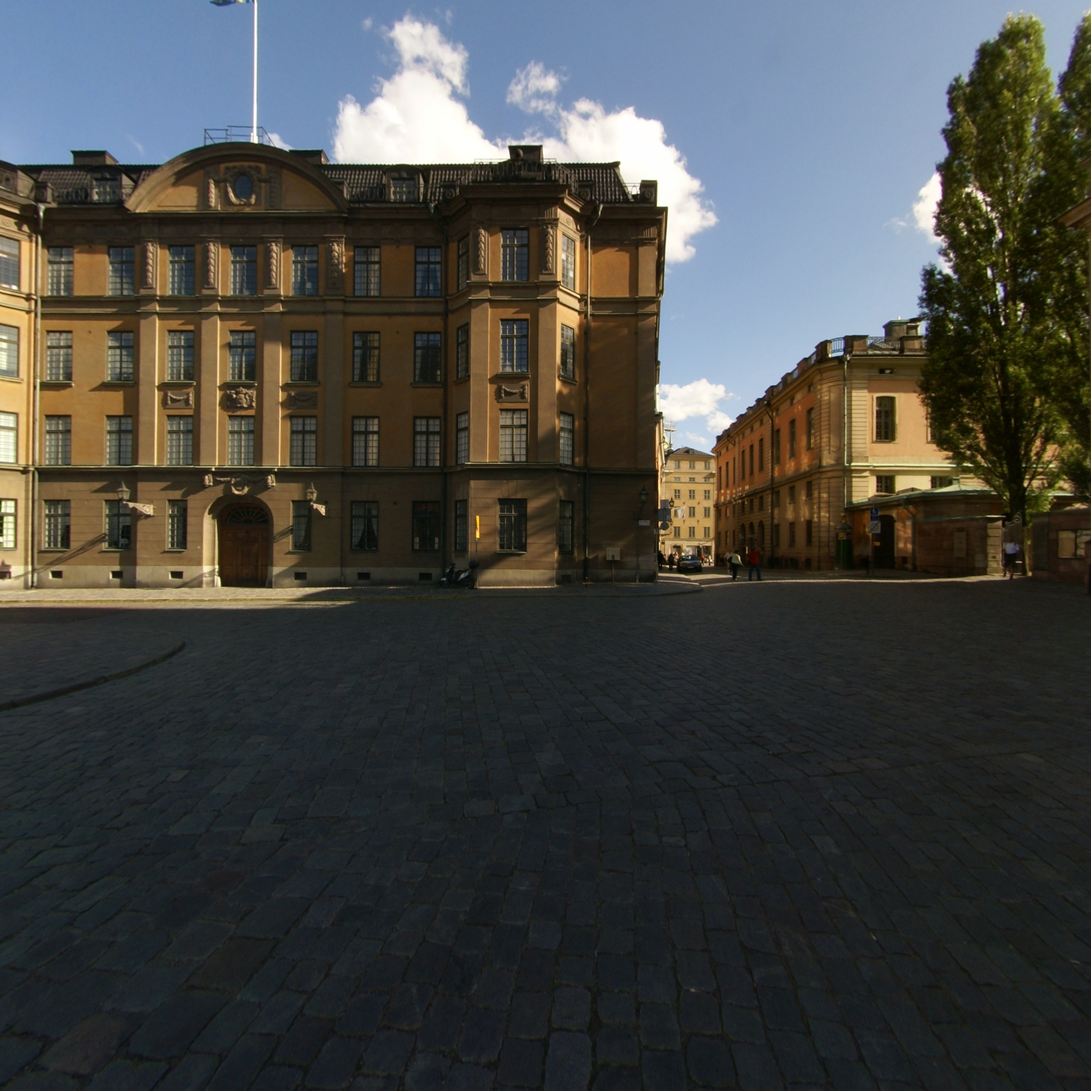
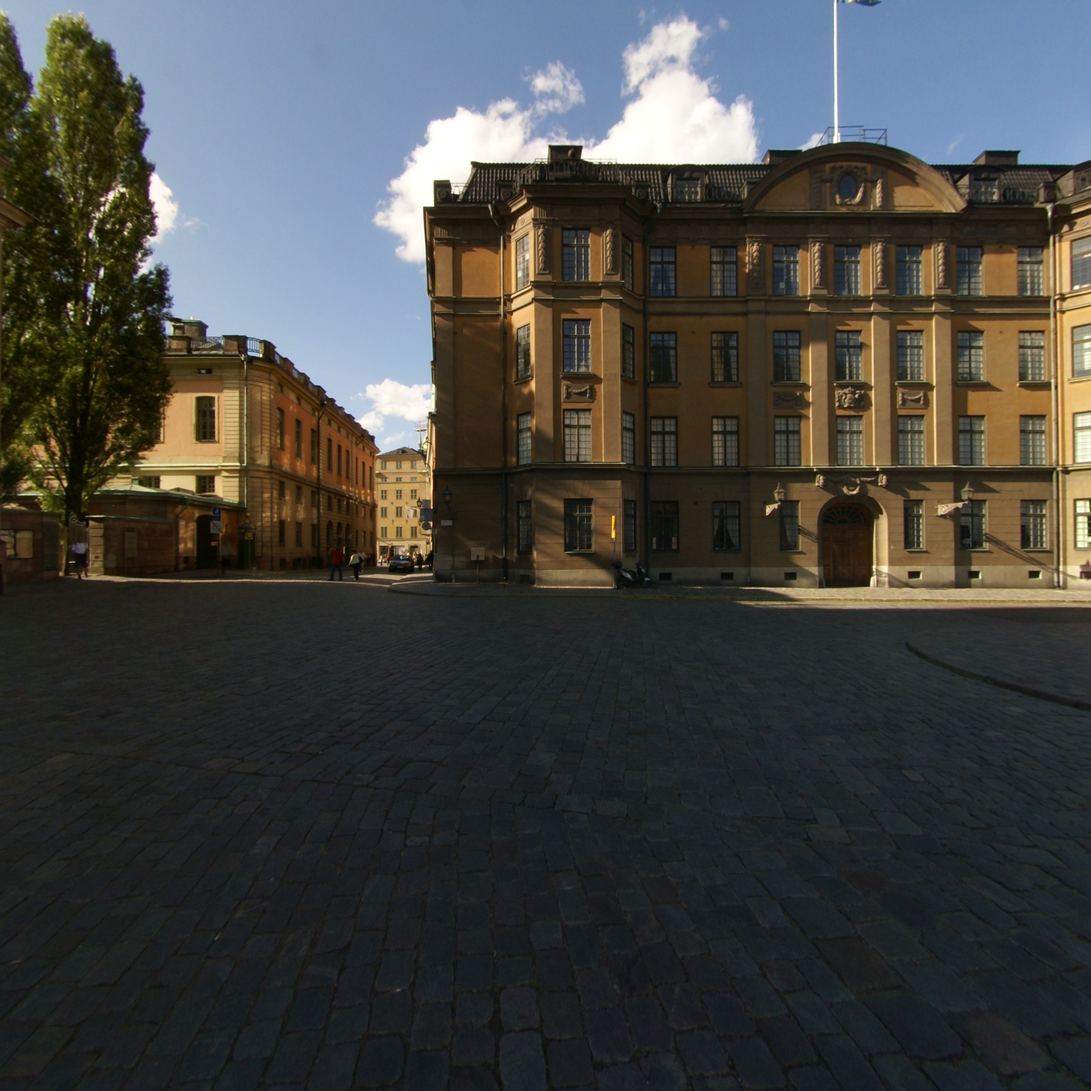
fixed image orientation and added camera movement

diff --git a/example-displayables.js b/example-displayables.js
@@ -11,8 +11,8 @@ Declare_Any_Class( "Debug_Screen",  // Debug_Screen - An example of a displayabl
       },
     'init_keys': function( controls )
       { controls.add( "t",    this, function() { this.visible ^= 1;                                                                                                             } );
-        controls.add( "up",   this, function() { this.start_index = ( this.start_index + 1 ) % Object.keys( this.string_map ).length;                                           } );
-        controls.add( "down", this, function() { this.start_index = ( this.start_index - 1   + Object.keys( this.string_map ).length ) % Object.keys( this.string_map ).length; } );
+        //controls.add( "up",   this, function() { this.start_index = ( this.start_index + 1 ) % Object.keys( this.string_map ).length;                                           } );
+        //controls.add( "down", this, function() { this.start_index = ( this.start_index - 1   + Object.keys( this.string_map ).length ) % Object.keys( this.string_map ).length; } );
         this.controls = controls;
       },
     'update_strings': function( debug_screen_object )   // Strings that this displayable object (Debug_Screen) contributes to the UI:
@@ -51,17 +51,18 @@ Declare_Any_Class( "Debug_Screen",  // Debug_Screen - An example of a displayabl
 Declare_Any_Class( "Example_Camera",     // An example of a displayable object that our class Canvas_Manager can manage.  Adds both first-person and
   { 'construct': function( context )     // third-person style camera matrix controls to the canvas.
       { // 1st parameter below is our starting camera matrix.  2nd is the projection:  The matrix that determines how depth is treated.  It projects 3D points onto a plane.
-        context.shared_scratchpad.graphics_state = new Graphics_State( translation(0, 0, -10), perspective(45, canvas.width/canvas.height, .1, 1000), 0 );
+        context.shared_scratchpad.graphics_state = new Graphics_State( translation(0, 0, 0), perspective(45, canvas.width/canvas.height, .1, 1000), 0 );
         //context.shared_scratchpad.graphics_state = new Graphics_State( translation(0, 0, 0), perspective(45, canvas.width/canvas.height, .1, 1000), 0 );
+        //this.define_data_members( { graphics_state: context.shared_scratchpad.graphics_state, thrust: vec3(), origin: vec3( 0, 5, 0 ), looking: false } );
         this.define_data_members( { graphics_state: context.shared_scratchpad.graphics_state, thrust: vec3(), origin: vec3( 0, 5, 0 ), looking: false } );
 
         // *** Mouse controls: ***
         this.mouse = { "from_center": vec2() };
-        var mouse_position = function( e ) { return vec2( e.clientX - canvas.width/2, e.clientY - canvas.height/2 ); };   // Measure mouse steering, for rotating the flyaround camera.
-        canvas.addEventListener( "mouseup",   ( function(self) { return function(e) { e = e || window.event;    self.mouse.anchor = undefined;              } } ) (this), false );
-        canvas.addEventListener( "mousedown", ( function(self) { return function(e) { e = e || window.event;    self.mouse.anchor = mouse_position(e);      } } ) (this), false );
-        canvas.addEventListener( "mousemove", ( function(self) { return function(e) { e = e || window.event;    self.mouse.from_center = mouse_position(e); } } ) (this), false );
-        canvas.addEventListener( "mouseout",  ( function(self) { return function(e) { self.mouse.from_center = vec2(); }; } ) (this), false );    // Stop steering if the mouse leaves the canvas.
+        // var mouse_position = function( e ) { return vec2( e.clientX - canvas.width/2, e.clientY - canvas.height/2 ); };   // Measure mouse steering, for rotating the flyaround camera.
+        // canvas.addEventListener( "mouseup",   ( function(self) { return function(e) { e = e || window.event;    self.mouse.anchor = undefined;              } } ) (this), false );
+        // canvas.addEventListener( "mousedown", ( function(self) { return function(e) { e = e || window.event;    self.mouse.anchor = mouse_position(e);      } } ) (this), false );
+        // canvas.addEventListener( "mousemove", ( function(self) { return function(e) { e = e || window.event;    self.mouse.from_center = mouse_position(e); } } ) (this), false );
+        // canvas.addEventListener( "mouseout",  ( function(self) { return function(e) { self.mouse.from_center = vec2(); }; } ) (this), false );    // Stop steering if the mouse leaves the canvas.
       },
     'init_keys': function( controls )   // init_keys():  Define any extra keyboard shortcuts here
       { controls.add( "Space", this, function() { this.thrust[1] = -1; } );     controls.add( "Space", this, function() { this.thrust[1] =  0; }, {'type':'keyup'} );
@@ -70,11 +71,15 @@ Declare_Any_Class( "Example_Camera",     // An example of a displayable object t
         controls.add( "a",     this, function() { this.thrust[0] =  1; } );     controls.add( "a",     this, function() { this.thrust[0] =  0; }, {'type':'keyup'} );
         controls.add( "s",     this, function() { this.thrust[2] = -1; } );     controls.add( "s",     this, function() { this.thrust[2] =  0; }, {'type':'keyup'} );
         controls.add( "d",     this, function() { this.thrust[0] = -1; } );     controls.add( "d",     this, function() { this.thrust[0] =  0; }, {'type':'keyup'} );
-        controls.add( "f",     this, function() { this.looking  ^=  1; } );
         controls.add( ",",     this, function() { this.graphics_state.camera_transform = mult( rotation( 6, 0, 0,  1 ), this.graphics_state.camera_transform ); } );
         controls.add( ".",     this, function() { this.graphics_state.camera_transform = mult( rotation( 6, 0, 0, -1 ), this.graphics_state.camera_transform ); } );
-        controls.add( "o",     this, function() { this.origin = mult_vec( inverse( this.graphics_state.camera_transform ), vec4(0,0,0,1) ).slice(0,3)         ; } );
         controls.add( "r",     this, function() { this.graphics_state.camera_transform = mat4()                                                               ; } );
+
+        //Added control to rotate camera direction
+        controls.add( "left",     this, function() { console.log("left"); this.graphics_state.camera_transform = mult( rotation( 1, 0, -1, 0 ), this.graphics_state.camera_transform ); } );
+        controls.add( "right",     this, function() { console.log("right"); this.graphics_state.camera_transform = mult( rotation( 1, 0, 1, 0 ), this.graphics_state.camera_transform ); } );
+        controls.add( "up",     this, function() { console.log("up"); this.graphics_state.camera_transform = mult( rotation( 1, -1, 0, 0 ), this.graphics_state.camera_transform ); } );
+        controls.add( "down",     this, function() { console.log("down"); this.graphics_state.camera_transform = mult( rotation( 1, 1, 0, 0 ), this.graphics_state.camera_transform ); } );
       },
     'update_strings': function( user_interface_string_manager )       // Strings that this displayable object (Animation) contributes to the UI:
       { var C_inv = inverse( this.graphics_state.camera_transform ), pos = mult_vec( C_inv, vec4( 0, 0, 0, 1 ) ),
@@ -84,7 +89,8 @@ Declare_Any_Class( "Example_Camera",     // An example of a displayable object t
         user_interface_string_manager.string_map["facing" ] = "Facing: "       + ( ( z_axis[0] > 0 ? "West " : "East ") + ( z_axis[1] > 0 ? "Down " : "Up " ) + ( z_axis[2] > 0 ? "North" : "South" ) );
       },
     'display': function( time )
-      { var leeway = 70,  degrees_per_frame = .0004 * this.graphics_state.animation_delta_time,
+      { 
+        var leeway = 70,  degrees_per_frame = .0004 * this.graphics_state.animation_delta_time,
                           meters_per_frame  =   .01 * this.graphics_state.animation_delta_time;
         // Third-person camera mode: Is a mouse drag occurring?
         if( this.mouse.anchor )

diff --git a/environment_mapping.js b/environment_mapping.js
@@ -12,7 +12,7 @@ Declare_Any_Class( "Environment_Mapping",  // An example of a displayable object
         this.graphics_state.lights = [ new Light( vec4( 0 % 7 - 3, 0 % 6 - 3, 0 % 5 - 3, 1 ), Color( 1, 0, 0, 1 ), 100000000 ),
                                          new Light( vec4( 0 % 6 - 3, 0 % 5 - 3, 0 % 7 - 3, 1 ), Color( 0, 1, 0, 1 ), 100000000 ) ];
 
-        var faceTextures = ["negy.jpg","posy.jpg","negx.jpg","posx.jpg","posz.jpg","negz.jpg"];
+        var faceTextures = ["negy.jpg","posy.jpg","posx.jpg","negx.jpg","posz.jpg","negz.jpg"];
         
         var random_material = new Material( Color( 0,0,0,1), 1, 0, 0, 0, faceTextures[0]);
 

diff --git a/MV.js b/MV.js
@@ -301,9 +301,11 @@ function rotation( angle, axis )
 {
     if ( !Array.isArray(axis) ) {
         axis = [ arguments[1], arguments[2], arguments[3] ];
+        //console.log("what: ",axis);
     }
 
     var v = normalize( axis.slice() );
+    //console.log(v);
 
     var x = v[0];
     var y = v[1];
@@ -312,6 +314,8 @@ function rotation( angle, axis )
     var c = Math.cos( radians(angle) );
     var omc = 1.0 - c;
     var s = Math.sin( radians(angle) );
+
+    //console.log("c: ", c, "s:", s);
 
     var result = mat4(
         vec4( x*x*omc + c,   x*y*omc - z*s, x*z*omc + y*s, 0.0 ),

diff --git a/index.html b/index.html
@@ -41,9 +41,6 @@ index.html - The web page document containing the canvas (drawing surface), that
         main_canvas.register_display_object( new Example_Camera   ( main_canvas ) );  // draw / keyboard / mouse event happens.
 
 
-        /*TO TEST NEW DEMO CODE*/
-        //main_canvas.register_display_object( new Surfaces_Tester  ( main_canvas ) );
-        //main_canvas.register_display_object( new Bee_Scene        ( main_canvas ) );
         main_canvas.register_display_object( new Environment_Mapping        ( main_canvas ) );
         main_canvas.render();
       }
